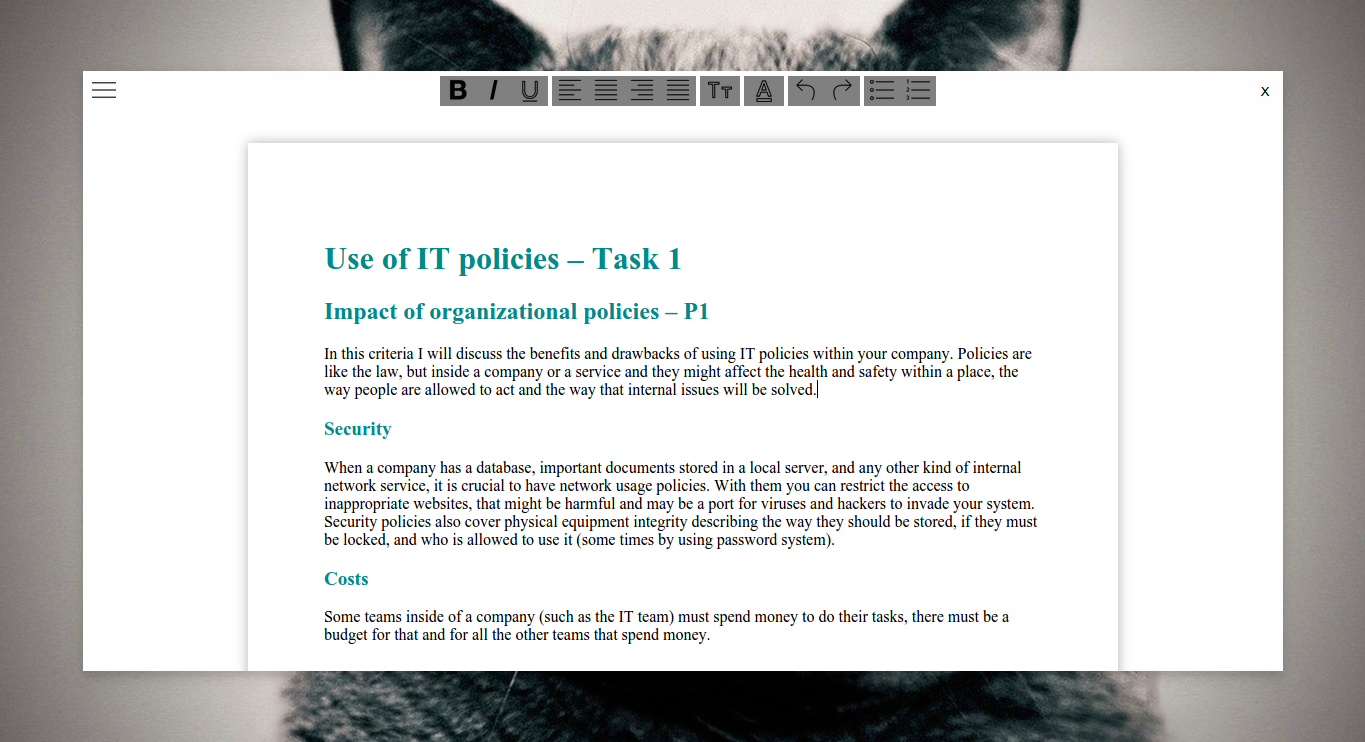
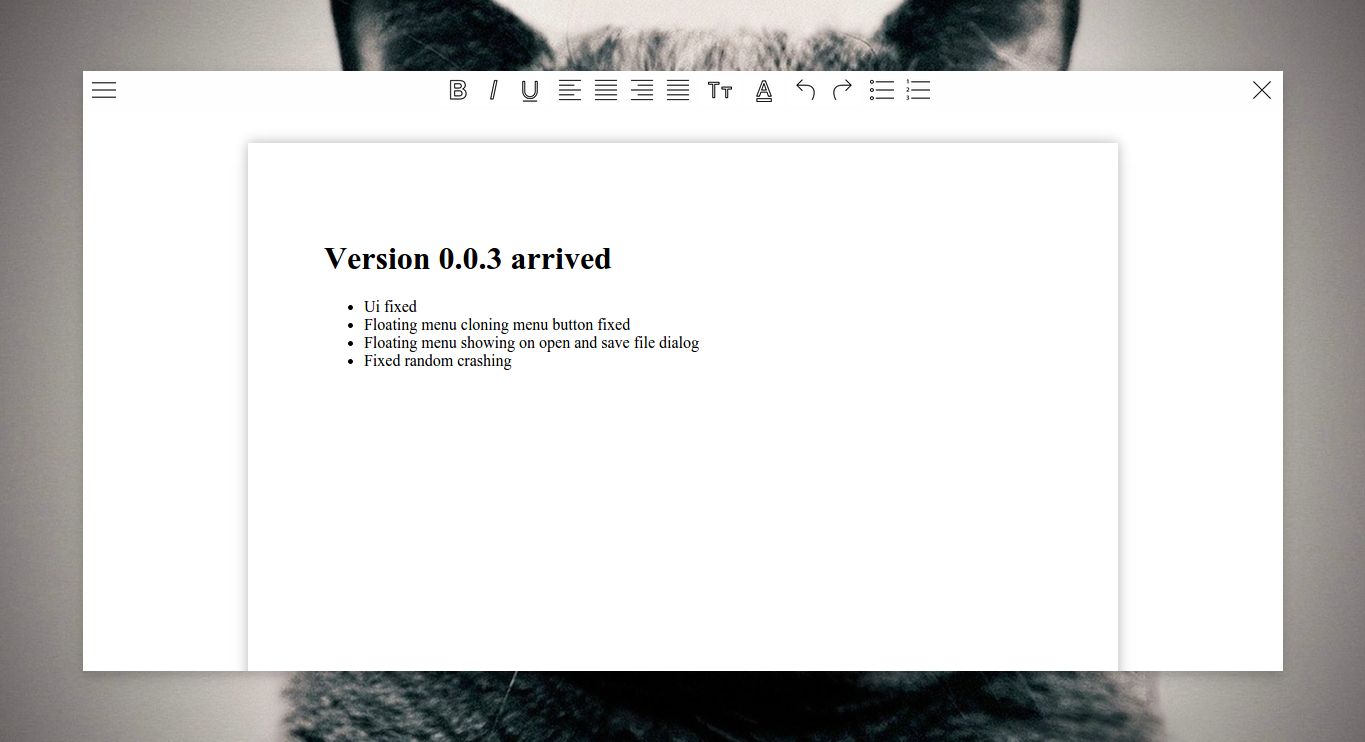
Version 0.0.3

diff --git a/index.html b/index.html
@@ -83,8 +83,7 @@
 		</div>
 
 		<div id="floatFormatBox" style="display: none; box-shadow: 0 0 0.5cm rgba(0, 0, 0, 0.3);">
[3 lines of base64/hex data omitted]
 		</div>
 
 </body>

diff --git a/js/editor.js b/js/editor.js
@@ -23,15 +23,15 @@ $(function(){
     document.execCommand("formatBlock", false, "p");
   });
 
-  $("#bold").bind("click", function(){
+  $("#bold, #bold2").bind("click", function(){
     document.execCommand("bold", false, false);
   });
 
-  $("#italic").bind("click", function(){
+  $("#italic, #italic2").bind("click", function(){
     document.execCommand("italic", false, false);
   });
 
-  $("#underline").bind("click", function(){
+  $("#underline, #underline2").bind("click", function(){
     document.execCommand("underline", false, false);
   });
 
@@ -92,6 +92,7 @@ $(function(){
   });
 
   $(document).bind('keydown', function(event) {
+    $("#floatFormatBox").hide();
     if (event.ctrlKey || event.metaKey) {
       switch (String.fromCharCode(event.which).toLowerCase()) {
         case 's':
@@ -235,10 +236,12 @@ var text = null;
 
 $(window).bind("mouseup", function(e){
 
-  if (floatOpen){
-    if ($("#floatFormatBox").is(":visible") && !(event.target.id == "floatFormatBox" || $(event.target).parents("#floatFormatBox").size())) $("#floatFormatBox").hide();
+  if (floatOpen){ // if clicked outside
+    if ($("#floatFormatBox").is(":visible") && !(event.target.id == "floatFormatBox" || $(event.target).parents("#floatFormatBox").size())) {$("#floatFormatBox").hide();}
     floatOpen = false;
   }
+
+  if ($("#filepathinput").is(":focus") || $("#saveFileInput").is(":focus")) return; // if typing file path
 
   if (window.getSelection) text = window.getSelection().toString();
   else if (document.selection && document.selection.type != "Control") text = document.selection.createRange().text;
@@ -248,9 +251,10 @@ $(window).bind("mouseup", function(e){
   if (lastText == text) {
     floatOpen = false;
     $("#floatFormatBox").hide();
+    lastText = ""; // word unselected, so text is empty now
     return;
   }
-  
+
   lastText = text;
 
   $("#floatFormatBox").css( {position:"absolute", top:e.pageY, left: e.pageX});
@@ -258,3 +262,11 @@ $(window).bind("mouseup", function(e){
   $("#floatFormatBox").show();
   floatOpen = true;
 });
+
+function clearSelection() {
+  if ( document.selection ) {
+    document.selection.empty();
+  } else if ( window.getSelection ) {
+    window.getSelection().removeAllRanges();
+  }
+}

diff --git a/README.md b/README.md
@@ -3,19 +3,27 @@
 WYIWYG html editor written in Javascrip + HTML.
 
 
-**Preview:** ![Alt Text](screenshots/preview-v0.0.4.png)
+**Preview:** ![Alt Text](screenshots/preview-v0.0.3.png)
 
 ## Features
 
 * Crappy Ctrl + S save function
 * Even crappier Ctrl + O open function
-* Not bad compatibility with text copied from LibreOffice (not tested with MS Office)
+* Not bad compatibility with text copied from LibreOffice (a bit worse when copied from MS Office)
 * Standard text formatting functions
 * Print
 * Drag and Drop file oppening
 * No distraction mode
 
 ## Changelog
+
+#### v0.0.3
+
+Finished standard ui theme.
+
+Fixed floating menu bugs.
+
+Fixed random crashing.
 
 #### v0.0.2
 
